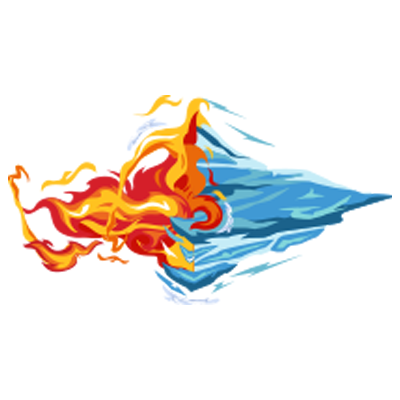
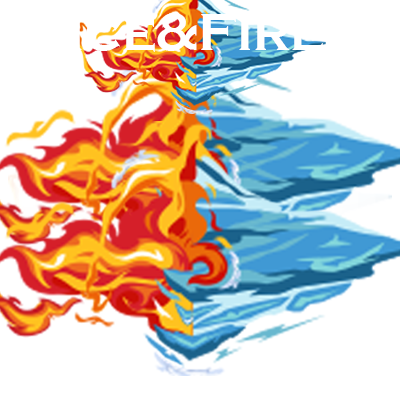
Add instructions scene

diff --git a/src/index.js b/src/index.js
@@ -5,6 +5,7 @@ import BootScene from './Scenes/BootScene';
 import PreloaderScene from './Scenes/PreloaderScene';
 import TitleScene from './Scenes/TitleScene';
 import OptionsScene from './Scenes/OptionsScene';
+import InstructionsScene from './Scenes/Instructions';
 import CreditsScene from './Scenes/CreditsScene';
 import Model from './Model';
 import { BattleScene, UIScene } from './Scenes/BattleScene';
@@ -19,6 +20,7 @@ class Game extends Phaser.Game {
     this.scene.add('Title', TitleScene);
     this.scene.add('Options', OptionsScene);
     this.scene.add('Credits', CreditsScene);
+    this.scene.add('Instructions', InstructionsScene);
     this.scene.add('Game', GameScene);
     this.scene.add('UIScene', UIScene);
     this.scene.add('BattleScene', BattleScene);

diff --git a/src/Scenes/TitleScene.js b/src/Scenes/TitleScene.js
@@ -9,12 +9,12 @@ export default class TitleScene extends Phaser.Scene {
 
   create () {
 
-    this.add.image(200, 220, 'logo');
+    this.add.image(210, 200, 'logo');
     // Game
     this.gameButton = new Button(this, config.width/2, config.height/2 - 80, 'blueButton1', 'blueButton2', 'Play', 'Game');
     
     // instuctions
-    this.optionsButton = new Button(this, config.width/2, config.height/2 - 25, 'blueButton1', 'blueButton2', 'How to play', 'How to play');
+    this.optionsButton = new Button(this, config.width/2, config.height/2 - 25, 'blueButton1', 'blueButton2', 'How to play', 'Instructions');
 
     // Options
     this.optionsButton = new Button(this, config.width/2, config.height/2 + 30, 'blueButton1', 'blueButton2', 'Options', 'Options');

diff --git a/src/Scenes/Instructions.js b/src/Scenes/Instructions.js
@@ -1,0 +1,21 @@
+import 'phaser';
+import Button from '../Objects/Button';
+
+export default class InstructionsScene extends Phaser.Scene {
+  constructor () {
+    super('Instructions');
+  }
+
+  create () {
+    this.model = this.sys.game.globals.model;
+
+    this.text = this.add.text(100, 50, 'How to play', { fontSize: 30 });
+    this.instructions = this.add.text(50, 110, 'Move around the world With\nthe arrow keys. On battle,\nselect attack action on\nmenu with space bar or left\narrow key. Kill shadows\nand demons to score up.', { fontSize: 20 });
+
+
+
+    this.menuButton = new Button(this, 210, 300, 'blueButton1', 'blueButton2', 'Menu', 'Title');
+  }
+
+
+};

diff --git a/src/Scenes/PreloaderScene.js b/src/Scenes/PreloaderScene.js
@@ -83,7 +83,7 @@ export default class PreloaderScene extends Phaser.Scene {
     this.load.image('box', '../assets/ui/grey_box.png');
     this.load.image('checkedBox', '../assets/ui/blue_boxCheckmark.png');
     this.load.audio('bgMusic', ['../assets/TownTheme.mp3']);
-    this.load.image('logo', '../assets/fire_ice.png');
+    this.load.image('logo', '../assets/fire-ice.png');
   }
 
   ready () {
